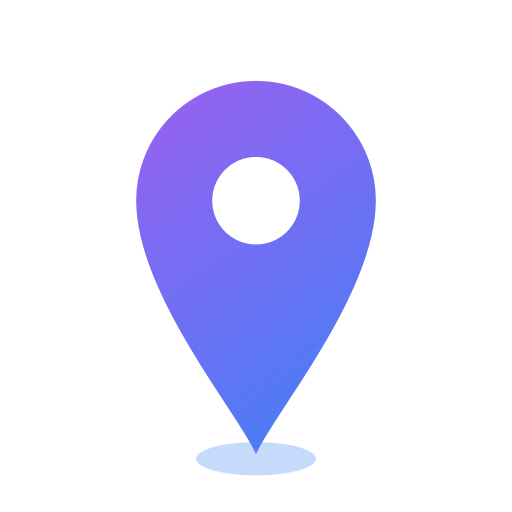
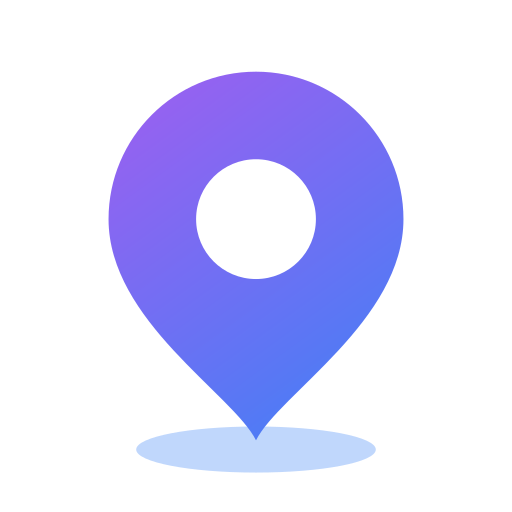
feat(brand): redraw the pin to the brand sheet's proportions

diff --git a/scripts/src/generate-brand.ts b/scripts/src/generate-brand.ts
@@ -36,10 +36,17 @@ const WHITE = '#ffffff'
 // painted in the background colour, so the hole is genuinely transparent - the
 // same file then works on white, on navy and over a photo.
 
-/** Pin: head circle centred (50,38) r26, drawn down to a point at (50,93). */
-const PIN_BODY = 'M50 93 C46 84 24 58 24 38 A26 26 0 1 1 76 38 C76 58 54 84 50 93 Z'
+/**
+ * Pin: head circle centred (50,42) r32, drawn down to a point at (50,90).
+ *
+ * The proportions are measured off the brand sheet rather than chosen: the
+ * head is 80% of the mark's height there, and the hole is 41% of the head.
+ * An earlier version was a taller teardrop - head 64% of the height - which
+ * read as a generic map pin rather than as this one.
+ */
+const PIN_BODY = 'M50 90 C45 80 18 64 18 42 A32 32 0 1 1 82 42 C82 64 55 80 50 90 Z'
 /** The hole, as a subpath: two arcs, so evenodd cuts it out of the body. */
-const PIN_HOLE = 'M59.5 38 A9.5 9.5 0 1 0 40.5 38 A9.5 9.5 0 1 0 59.5 38 Z'
+const PIN_HOLE = 'M63 42 A13 13 0 1 0 37 42 A13 13 0 1 0 63 42 Z'
 
 const GRADIENT_ID = 'brand'
 
@@ -54,7 +61,9 @@ function logoMark(id = GRADIENT_ID): string {
   return [
     gradient(id),
     // The pin floats: a soft ellipse grounds it, as in the brand sheet.
-    `<ellipse cx="50" cy="94" rx="13" ry="3.6" fill="${L.shadow}" opacity="0.45"/>`,
+    // Wide and close under the tip, as on the sheet, where it is about four
+    // fifths of the head's width. A narrow ellipse reads as a smudge.
+    `<ellipse cx="50" cy="92" rx="26" ry="5" fill="${L.shadow}" opacity="0.5"/>`,
     `<path d="${PIN_BODY} ${PIN_HOLE}" fill="url(#${id})" fill-rule="evenodd"/>`,
   ].join('')
 }
@@ -110,8 +119,9 @@ const fullBleed = (background: string, art: string, scale: number) =>
 /**
  * Android adaptive foreground: transparent, artwork inside the centre safe
  * zone. Launchers crop this layer to a circle, squircle or square, and only a
- * circle of about 61% diameter survives all of them. The pin's furthest point
- * is its tip, 43 units from centre, which lands at 21.5% against a 30.5% limit.
+ * circle of about 61% diameter survives all of them. The pin's furthest points
+ * are its tip (50,90) and the crown of its head (50,10), both 40 units from
+ * centre, which land at 20% against a 30.5% limit.
  */
 const ADAPTIVE_SCALE = 0.5
 
